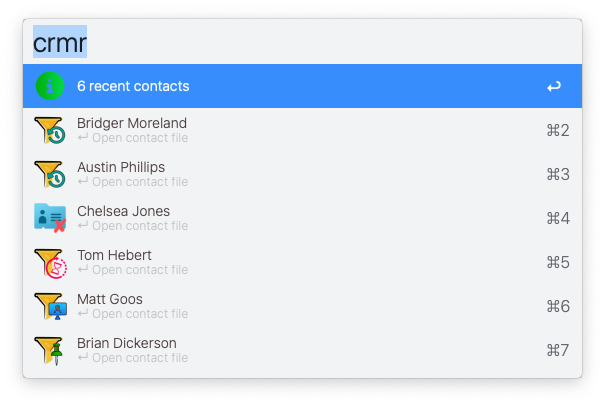
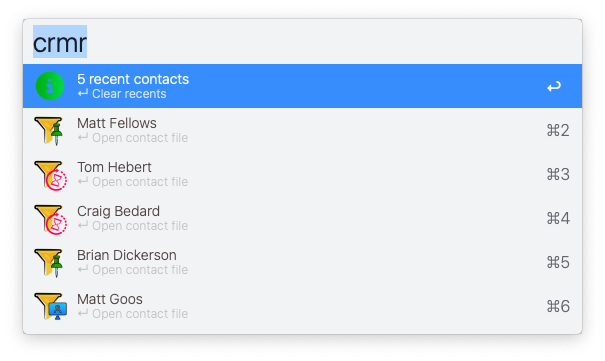
Added feature to 'clear recents'

diff --git a/scripts/list_recent_contacts.py b/scripts/list_recent_contacts.py
@@ -60,11 +60,16 @@ with open(recent_path, "w") as f:
 
 # === Summary row ===
 noun = "contact" if rowcount == 1 else "contacts"
-items.insert(0, {
+summary_item = {
     "title": f"{rowcount} recent {noun}",
     "icon": { "path": "info.png" },
-    "valid": False
-})
+    "arg": "clear_recents"
+}
+
+if rowcount > 0:
+    summary_item["subtitle"] = "↵ Clear recents"
+
+items.insert(0, summary_item)
 
 # === Output JSON ===
 print(json.dumps({ "items": items }))

diff --git a/README.md b/README.md
@@ -16,7 +16,7 @@
 **✓**  Add new contacts — blazingly simple & fast  
 **✓**  Find them — even faster  
 **✓**  Use tags to filter in infinite ways  
-**✓**  Use your favorite editor for all contacts file  
+**✓**  Use your favorite editor for all contact file  
 **✓**  Save any search using the `enter` key  
 **✓**  Smart Icons for lead status & more *(completely configurable)*
 
@@ -121,11 +121,15 @@ Save any filtered contacts from above to a saved search.
 
 List the most recently opened contact files.
 
-![](assets/crmr.png)    
+![](assets/crmr.png)  
+
+#### For 1st row    
+
+<kbd>↵</kbd> To clear this recents list
+
+#### For all contact rows
 
 <kbd>↵</kbd> To open selected contact file
-
----
 
 ### Tags & Icons
 
